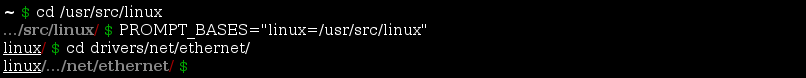
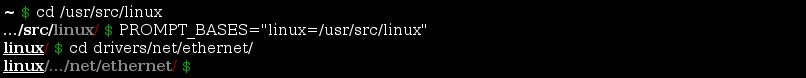
Dokument symlink detection

Changed region(s): [[0.0, 0.5385, 0.3102, 0.6923], [0.0, 0.7692, 0.2481, 0.9231], [0.0, 0.3333, 0.062, 0.4615]]

diff --git a/README.md b/README.md
@@ -19,6 +19,10 @@ Only the two trailing path components are shown by default. You can change this 
 
 ![Dirtrim](images/path.png)
 
+The prompt detects if you follow a symlink and show it in a different color:
+
+![Symlink](images/symlink.png)
+
 It is possible to define work bases using `PROMPT_BASES`:
 
 ![Work bases](images/bases.png)
